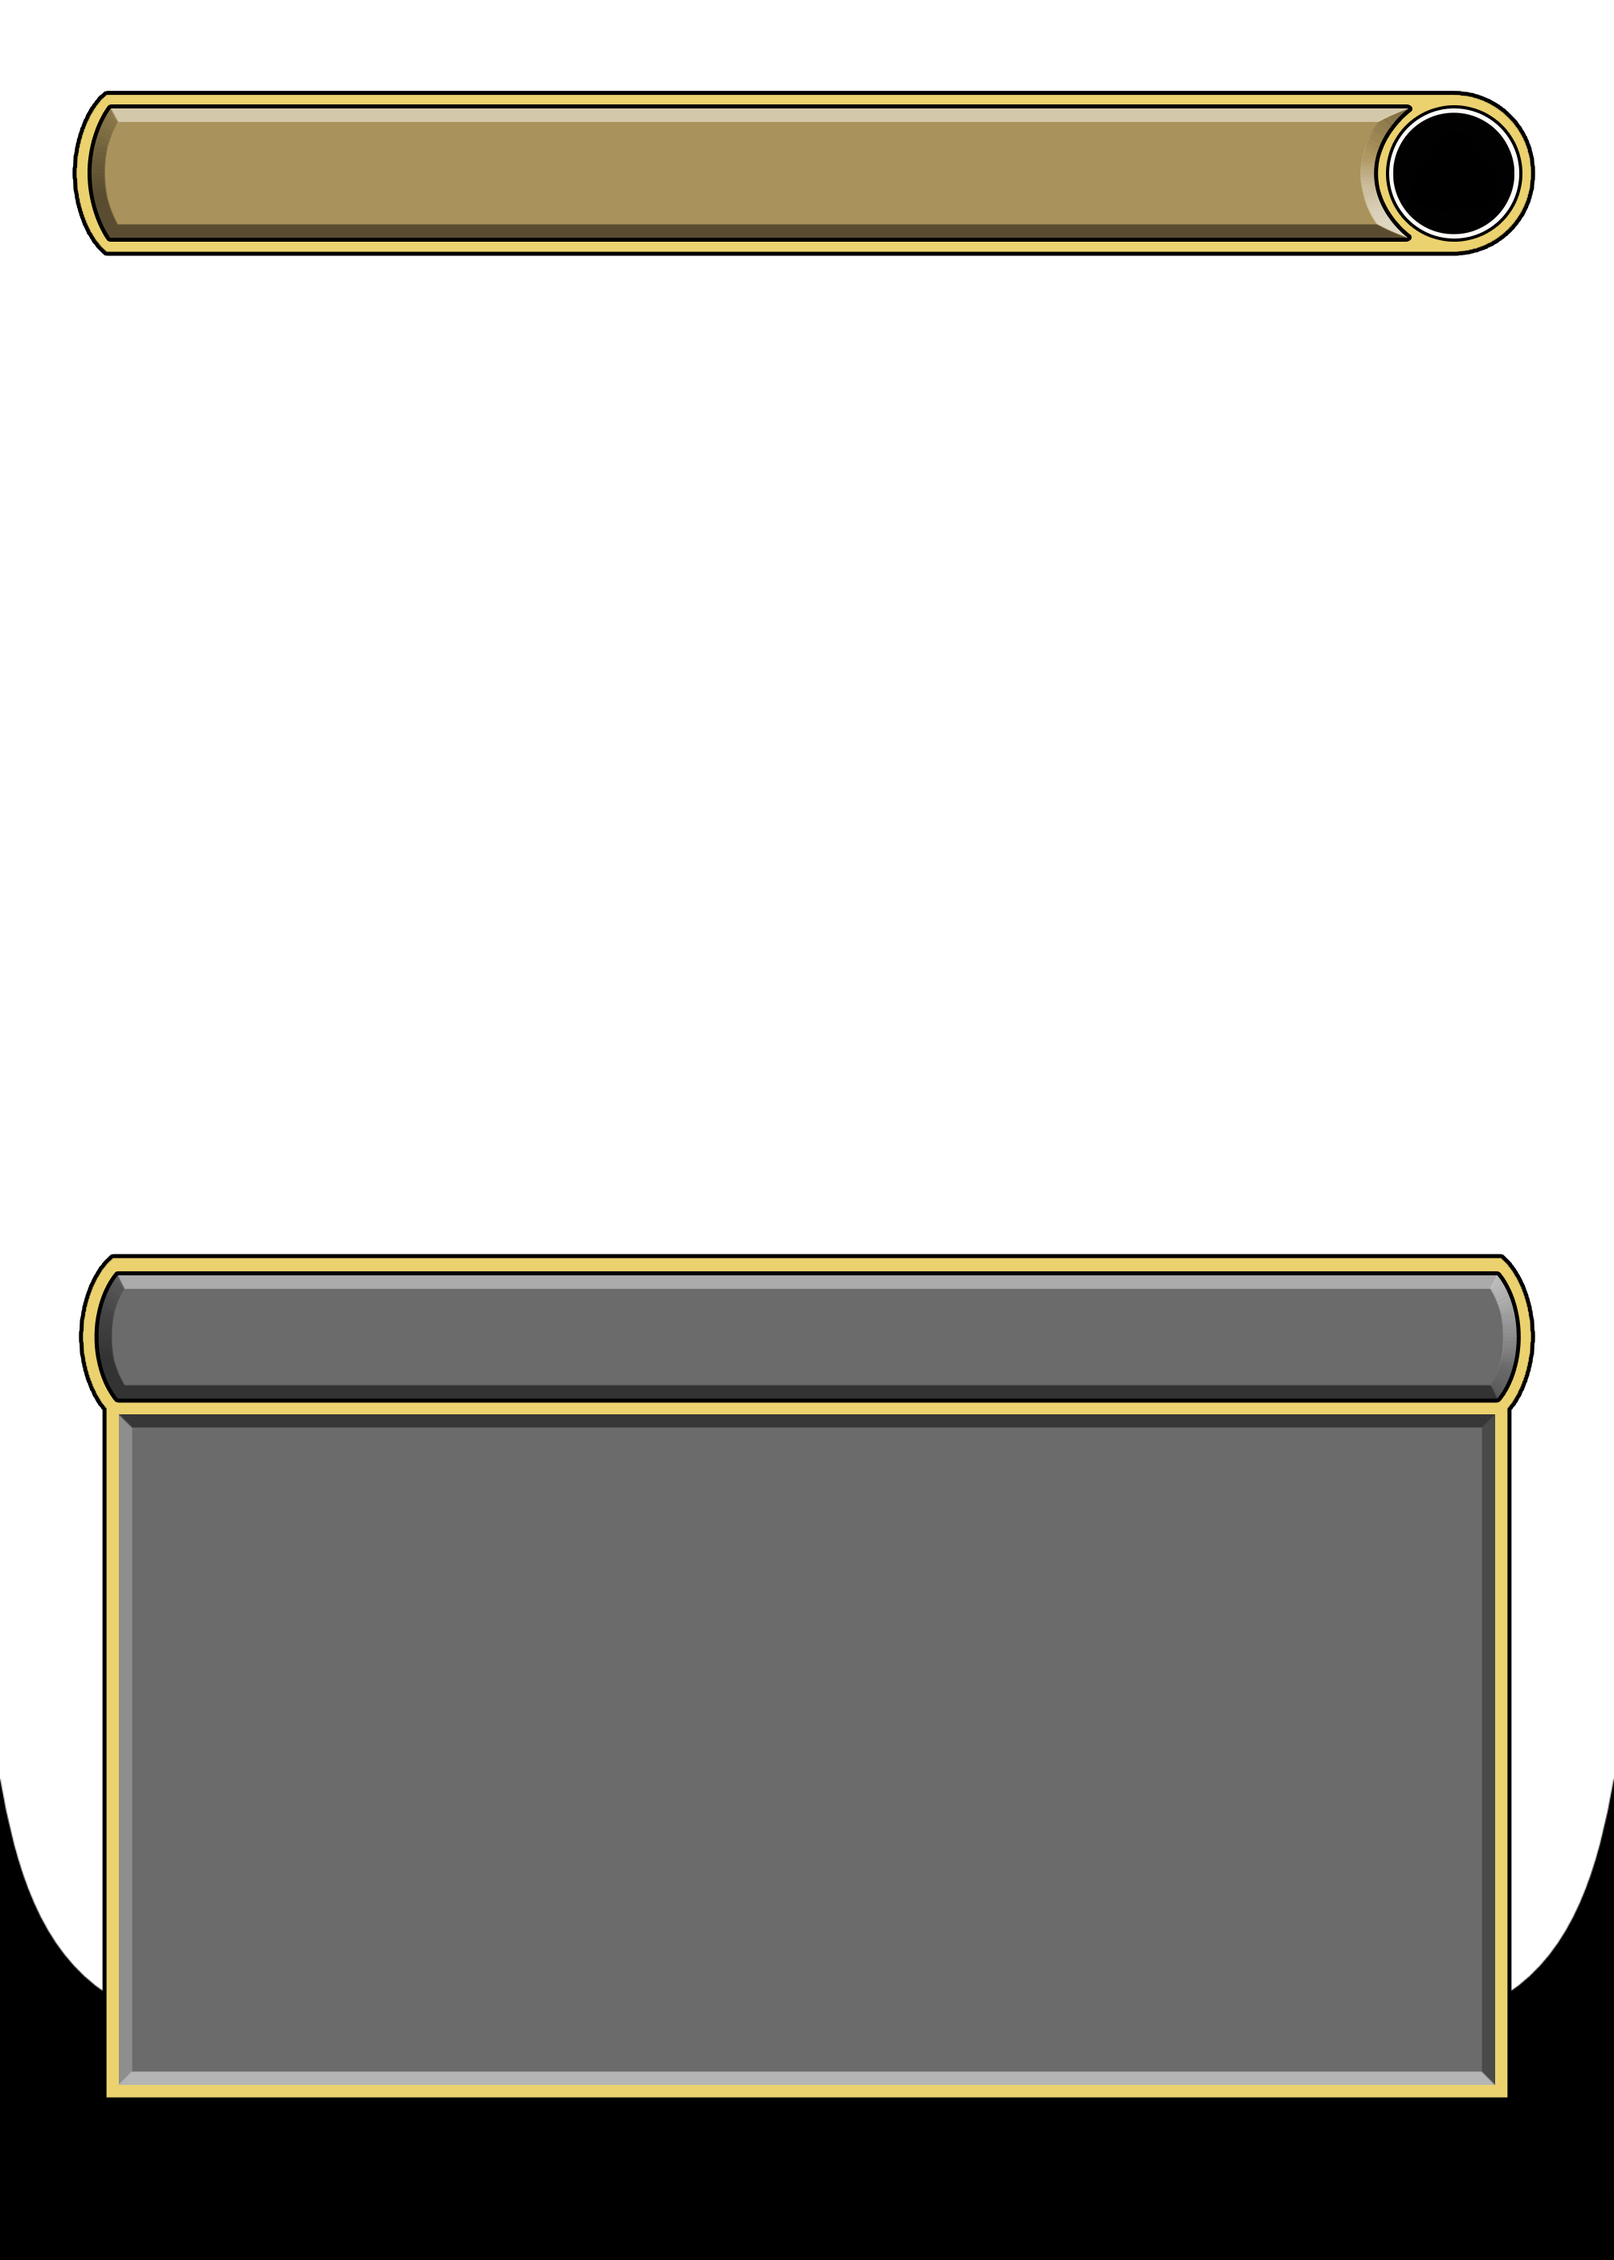
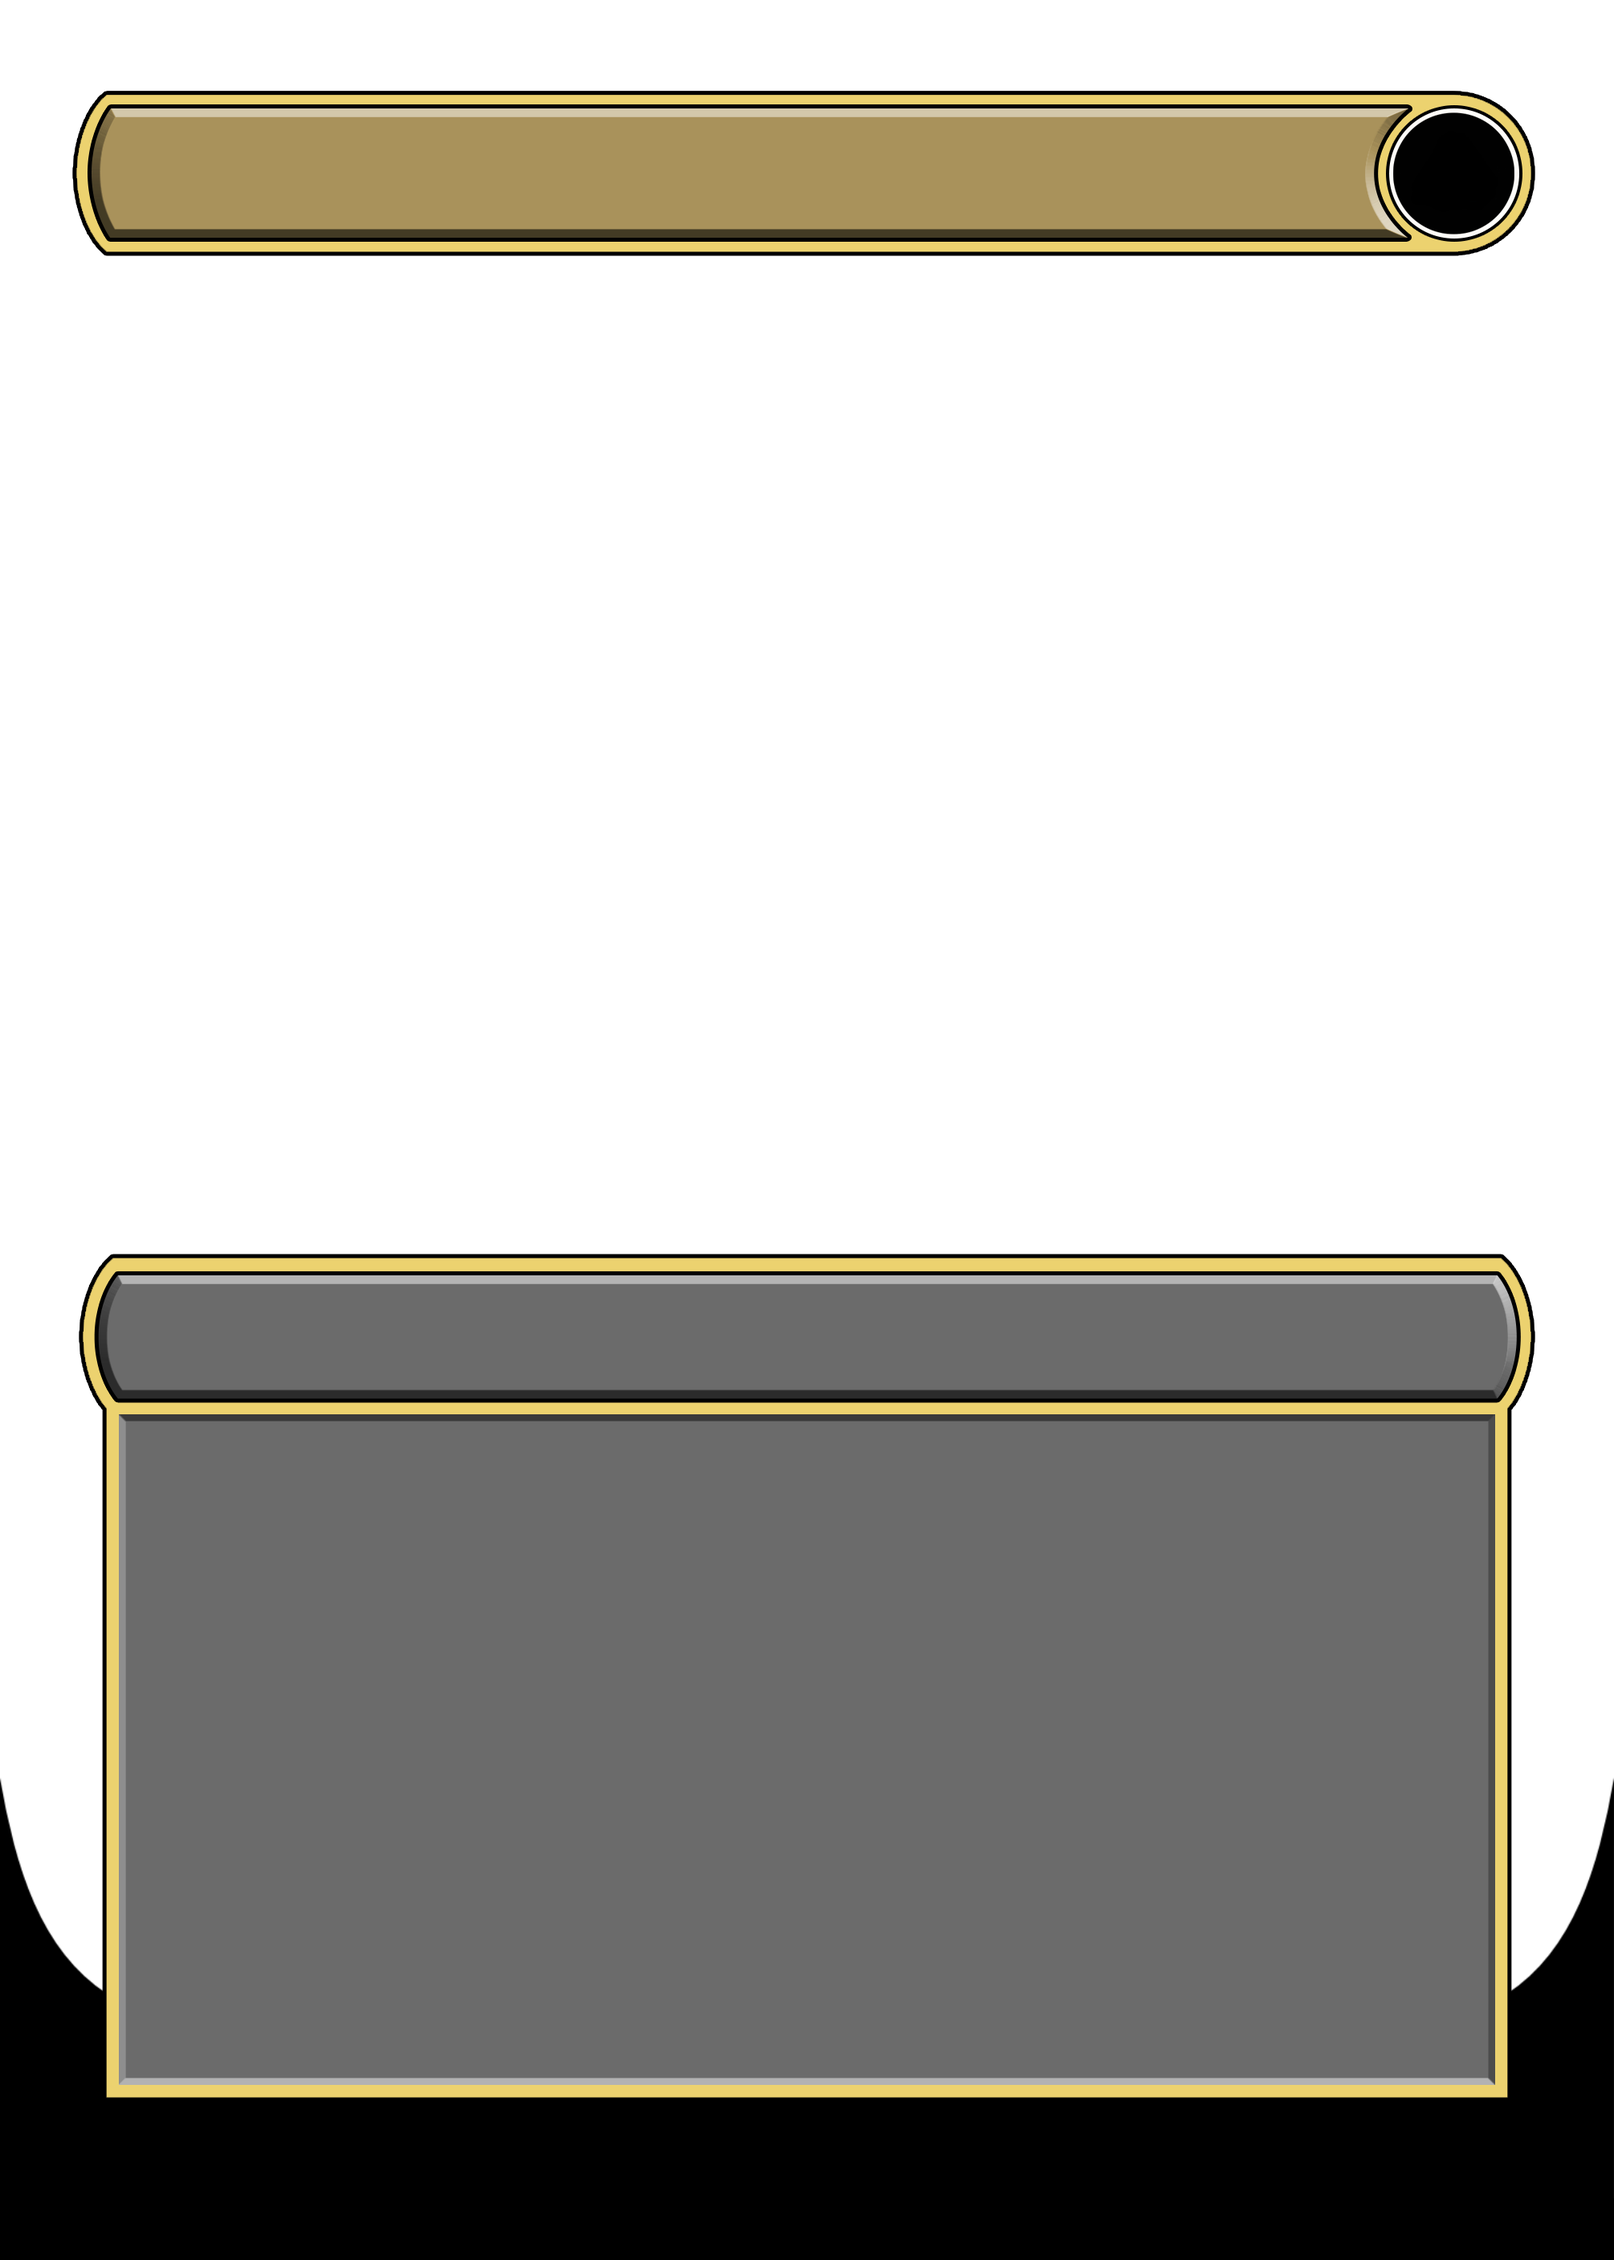
Porting PR178 and PR180 from CC
PR178: Adds Floating Legends Crown Back Right
PR180: Add Fable frame
Both submitted by AModSoul

Changed region(s): [[0.0617, 0.5874, 0.9254, 0.9275], [0.0617, 0.0618, 0.0925, 0.0928]]

diff --git a/src/components/frames/packs/FableECL.ts b/src/components/frames/packs/FableECL.ts
@@ -1,0 +1,61 @@
+import type { FramePackTemplate, Mask, FrameItem, Bounds } from './types';
+
+// Shared masks for frames
+const masks: Mask[] = [
+  { src: '/img/frames/fable/masks/maskTitle.png', name: 'Title' },
+  { src: '/img/frames/fable/masks/maskFrame.png', name: 'Frame' },
+  { src: '/img/frames/fable/masks/maskNoBorder.png', name: 'No Border' },
+  { src: '/img/frames/fable/masks/maskNoTitle.png', name: 'No Title' },
+  { src: '/img/frames/fable/masks/maskBorder.png', name: 'Border' },
+];
+
+// Shared bounds for P/T boxes
+const ptBounds: Bounds = { x: 6 / 2010, y: 11 / 2814, width: 1, height: 1 };
+
+// Shared bounds for holo stamps
+const stampBounds: Bounds = { x: 805 / 2010, y: 2500 / 2814, width: 400 / 2010, height: 125 / 2814 };
+
+const frames: FrameItem[] = [
+  { name: 'White Frame', src: '/img/frames/fable/w.png', masks },
+  { name: 'Blue Frame', src: '/img/frames/fable/u.png', masks },
+  { name: 'Black Frame', src: '/img/frames/fable/b.png', masks },
+  { name: 'Red Frame', src: '/img/frames/fable/r.png', masks },
+  { name: 'Green Frame', src: '/img/frames/fable/g.png', masks },
+  { name: 'Multicolored Frame', src: '/img/frames/fable/m.png', masks },
+  { name: 'Artifact Frame', src: '/img/frames/fable/a.png', masks },
+  { name: 'White Power/Toughness', src: '/img/frames/fable/pt/w.png', bounds: ptBounds },
+  { name: 'Blue Power/Toughness', src: '/img/frames/fable/pt/u.png', bounds: ptBounds },
+  { name: 'Black Power/Toughness', src: '/img/frames/fable/pt/b.png', bounds: ptBounds },
+  { name: 'Red Power/Toughness', src: '/img/frames/fable/pt/r.png', bounds: ptBounds },
+  { name: 'Green Power/Toughness', src: '/img/frames/fable/pt/g.png', bounds: ptBounds },
+  { name: 'Multicolored Power/Toughness', src: '/img/frames/fable/pt/m.png', bounds: ptBounds },
+  { name: 'Artifact Power/Toughness', src: '/img/frames/fable/pt/a.png', bounds: ptBounds },
+  { name: 'White Holo Stamp', src: '/img/frames/fable/stamp/w.png', bounds: stampBounds },
+  { name: 'Blue Holo Stamp', src: '/img/frames/fable/stamp/u.png', bounds: stampBounds },
+  { name: 'Black Holo Stamp', src: '/img/frames/fable/stamp/b.png', bounds: stampBounds },
+  { name: 'Red Holo Stamp', src: '/img/frames/fable/stamp/r.png', bounds: stampBounds },
+  { name: 'Green Holo Stamp', src: '/img/frames/fable/stamp/g.png', bounds: stampBounds },
+  { name: 'Multicolored Holo Stamp', src: '/img/frames/fable/stamp/m.png', bounds: stampBounds },
+  { name: 'Artifact Holo Stamp', src: '/img/frames/fable/stamp/a.png', bounds: stampBounds },
+  { name: 'Plain Holo Stamp', src: '/img/frames/m15/holoStamps/stamp.png', bounds: { x: 916 / 2010, y: 2555 / 2814, width: 180 / 2010, height: 90 / 2814 } },
+  { name: 'Gray Holo Stamp', src: '/img/frames/m15/holoStamps/gray.png', bounds: { x: 916 / 2010, y: 2555 / 2814, width: 180 / 2010, height: 90 / 2814 } },
+];
+
+const template: FramePackTemplate = {
+  id: 'FableECL',
+  label: 'Fable (ECL)',
+  version: 'fableECL',
+  artBounds: { x: 0 / 2010, y: 0 / 2814, width: 2010 / 2010, height: 1585 / 2814 },
+  setSymbolBounds: { x: 1845 / 2010, y: 1240 / 2100, width: 0.12, height: 0.0410, vertical: 'center', horizontal: 'right' },
+  watermarkBounds: { x: 0.5, y: 0.7762, width: 0.75, height: 0.2305 },
+  frames,
+  text: {
+    mana: { name: 'Mana Cost', text: '', x: -34 / 2010, y: 194 / 2814, width: 1864 / 2010, height: 71 / 2100, oneLine: true, size: 70.5 / 1638, align: 'right', shadowX: -0.001, shadowY: 0.0029, manaCost: true, manaSpacing: 0 },
+    title: { name: 'Title', text: '', x: 168 / 2010, y: 163 / 2814, width: 0.8292, height: 0.0543, oneLine: true, font: 'belerenb', size: 0.0381 },
+    type: { name: 'Type', text: '', x: 168 / 2010, y: 1588 / 2814, width: 0.8292, height: 0.0543, oneLine: true, font: 'belerenb', size: 0.0324 },
+    rules: { name: 'Rules Text', text: '', x: 187 / 2010, y: 1780 / 2814, width: 1650 / 2010, height: 790 / 2814, size: 0.0362 },
+    pt: { name: 'Power/Toughness', text: '', x: 0.7928, y: 2532 / 2814, width: 0.1367, height: 0.0372, size: 0.0372, font: 'belerenbsc', oneLine: true, align: 'center' },
+  },
+};
+
+export default template;

diff --git a/src/components/frames/packs/TransformLegendCrownsFloatingBackRight.ts b/src/components/frames/packs/TransformLegendCrownsFloatingBackRight.ts
@@ -1,0 +1,27 @@
+import type { FramePackTemplate, FrameItem, Bounds } from './types';
+
+// Shared bounds
+const bounds: Bounds = { x: 0, y: 0, width: 1, height: 1 };
+
+const frames: FrameItem[] = [
+  { name: 'White Legend Crown', src: '/img/frames/m15/transform/crowns/floating/backRight/w.png', bounds, complementary: [9, 10] },
+  { name: 'Blue Legend Crown', src: '/img/frames/m15/transform/crowns/floating/backRight/u.png', bounds, complementary: [9, 10] },
+  { name: 'Black Legend Crown', src: '/img/frames/m15/transform/crowns/floating/backRight/b.png', bounds, complementary: [9, 10] },
+  { name: 'Red Legend Crown', src: '/img/frames/m15/transform/crowns/floating/backRight/r.png', bounds, complementary: [9, 10] },
+  { name: 'Green Legend Crown', src: '/img/frames/m15/transform/crowns/floating/backRight/g.png', bounds, complementary: [9, 10] },
+  { name: 'Multicolored Legend Crown', src: '/img/frames/m15/transform/crowns/floating/backRight/m.png', bounds, complementary: [9, 10] },
+  { name: 'Artifact Legend Crown', src: '/img/frames/m15/transform/crowns/floating/backRight/a.png', bounds, complementary: [9, 10] },
+  { name: 'Colorless Legend Crown', src: '/img/frames/m15/transform/crowns/floating/backRight/c.png', bounds, complementary: [9, 10] },
+//   { name: 'Land Legend Crown', src: '/img/frames/m15/transform/crowns/floating/backRight/l.png', bounds, complementary: [9, 10] },
+  { name: 'Legend Crown Border Cover', src: '/img/black.png', bounds: { x: 0.0394, y: 0.0277, width: 0.9214, height: 0.0177 }, erase: true },
+  { name: 'Legend Crown Lower Cutout', src: '/img/black.png', bounds: { x: 0.0767, y: 0.1096, width: 0.8467, height: 0.0143 }, erase: true },
+  { name: 'Legend Crown Outline (Place this under crown layer)', src: '/img/frames/m15/crowns/m15CrownFloatingOutline.png', bounds: { x: 0.028, y: 0.0172, width: 0.944, height: 0.1062 } },
+];
+
+const template: FramePackTemplate = {
+  id: 'TransformLegendCrownsFloatingBackRight',
+  label: 'Floating Legend Crowns (Back/Right)',
+  frames,
+};
+
+export default template;

diff --git a/src/components/frames/packs/packLoader.ts b/src/components/frames/packs/packLoader.ts
@@ -95,6 +95,7 @@ import FABHeroes from './FABHeroes';
 import FABLight from './FABLight';
 import FABRegular from './FABRegular';
 import FABShadow from './FABShadow';
+import FableECL from './FableECL';
 import Fang from './Fang';
 import FNM from './FNM';
 import Fuse from './Fuse';
@@ -228,7 +229,9 @@ import M15TransformUBBack from './M15TransformUBBack';
 import TransformSDCC15 from './TransformSDCC15';
 import TransformLegendCrowns from './TransformLegendCrowns';
 import TransformLegendCrownsFloating from './TransformLegendCrownsFloating';
+import TransformLegendCrownsFloatingBackRight from './TransformLegendCrownsFloatingBackRight';
 import TransformLegendCrownsNickname from './TransformLegendCrownsNickname';
+import MarginFableECL from './MarginFableECL';
 import M15NyxNew from './M15NyxNew-1';
 import UBNew from './UBNew-1';
 import UBLegendCrownsNew from './UBLegendCrownsNew-1';
@@ -498,6 +501,7 @@ const PACK_REGISTRY: Record<string, FramePackTemplate> = {
   'FABClasses': FABClasses,
   'FABElemental': FABElemental,
   'FABFabled': FABFabled,
+  'FableECL': FableECL,
   'FABHeroes': FABHeroes,
   'FABLight': FABLight,
   'FABRegular': FABRegular,
@@ -718,7 +722,9 @@ const PACK_REGISTRY: Record<string, FramePackTemplate> = {
   'TransformSDCC15': TransformSDCC15,
   'TransformLegendCrowns': TransformLegendCrowns,
   'TransformLegendCrownsFloating': TransformLegendCrownsFloating,
+  'TransformLegendCrownsFloatingBackRight': TransformLegendCrownsFloatingBackRight,
   'TransformLegendCrownsNickname': TransformLegendCrownsNickname,
+  'MarginFableECL': MarginFableECL,
   'Woodland': Woodland,
 };
 

diff --git a/src/components/frames/packs/MarginFableECL.ts b/src/components/frames/packs/MarginFableECL.ts
@@ -1,0 +1,28 @@
+import type { FramePackTemplate, Mask, FrameItem, Bounds } from './types';
+
+// Shared masks for frames
+const masks: Mask[] = [
+  { src: '/img/frames/fable/margin/masks/maskNoBorder.png', name: 'No Border' },
+];
+
+// Shared bounds for extension frames
+const bounds: Bounds = { x: -88 / 2010, y: -80 / 2817, width: 2187 / 2010, height: 2978 / 2817 };
+const ogBounds: Bounds = { x: 0, y: 0, width: 1, height: 1 };
+
+const frames: FrameItem[] = [
+  { name: 'White Extension', src: '/img/frames/fable/margin/w.png', bounds, ogBounds, masks },
+  { name: 'Blue Extension', src: '/img/frames/fable/margin/u.png', bounds, ogBounds, masks },
+  { name: 'Black Extension', src: '/img/frames/fable/margin/b.png', bounds, ogBounds, masks },
+  { name: 'Red Extension', src: '/img/frames/fable/margin/r.png', bounds, ogBounds, masks },
+  { name: 'Green Extension', src: '/img/frames/fable/margin/g.png', bounds, ogBounds, masks },
+  { name: 'Multicolored Extension', src: '/img/frames/fable/margin/m.png', bounds, ogBounds, masks },
+  { name: 'Artifact Extension', src: '/img/frames/fable/margin/a.png', bounds, ogBounds, masks },
+];
+
+const template: FramePackTemplate = {
+  id: 'MarginFableECL',
+  label: 'Fable (ECL) Margins',
+  frames,
+};
+
+export default template;

diff --git a/src/components/frames/groups/DFC.ts b/src/components/frames/groups/DFC.ts
@@ -26,7 +26,7 @@ const group: LegacyGroup = {
     { kind: 'pack', label: 'Snow (Back)', id:'M15TransformSnowBackNew' },
     { kind: 'pack', label: 'Universes Beyond (Back)', id:'M15TransformUBBackNew' },
     { kind: 'pack', label: 'Borderless (Back)', id:'TransformBorderlessBack' },
-    { kind: 'pack', label: 'Borderless Alt (Back)', id:'TransformBorderlessAltBack' },
+    { kind: 'pack', label: 'Borderless Alt (Back/Right)', id:'TransformBorderlessAltBack' },
     { kind: 'pack', label: 'Extended Art (Back)', id:'TransformExtendedBack' },
 
     { kind: 'label', label: 'Common Parts' },
@@ -44,6 +44,7 @@ const group: LegacyGroup = {
     { kind: 'label', label: 'Addons' },
     { kind: 'pack', label: 'Legend Crowns', id:'TransformLegendCrowns' },
     { kind: 'pack', label: 'Floating Legend Crowns', id:'TransformLegendCrownsFloating' },
+    { kind: 'pack', label: 'Floating Legend Crowns (Back/Right)', id:'TransformLegendCrownsFloatingBackRight' },
     { kind: 'pack', label: 'Nickname Legend Crowns', id:'TransformLegendCrownsNickname' },
     { kind: 'pack', label: 'Legend Crowns (Universes Beyond)', id:'TransformLegendCrownsUB' },
     { kind: 'pack', label: 'Inner Crowns', id:'M15InnerCrowns' },

diff --git a/src/components/frames/groups/Margin.ts b/src/components/frames/groups/Margin.ts
@@ -6,6 +6,7 @@ const group: LegacyGroup = {
   notice: 'More work need to be done for this group',
   packs: [
     { kind: 'pack', label: 'Generic Margins', id:'Margin-1' },
+    { kind: 'pack', label: 'Fable (ECL) Margins', id:'MarginFableECL' },
     { kind: 'pack', label: 'Elemental Margins (TLA)', id:'MarginElemental' },
     { kind: 'pack', label: 'Edge of Eternities Basics (EOE)', id:'MarginEOEBasics' },
     { kind: 'pack', label: 'Borderless Stellar Sights', id:'MarginBorderlessStellarSights' },

diff --git a/src/components/frames/groups/Showcase-5.ts b/src/components/frames/groups/Showcase-5.ts
@@ -5,6 +5,7 @@ const group: LegacyGroup = {
   label: 'Showcase Frames',
   packs: [
     { kind: 'label', label: 'Set Showcase Frames (Chronological)' },
+    { kind: 'pack', label: 'Fable (ECL)', id:'FableECL' },
     { kind: 'pack', label: 'Neon Ink (TLA)', id:'NeonInk' },
     { kind: 'pack', label: 'Avatar Elemental (TLA)', id:'Elemental' },
     { kind: 'pack', label: 'Borderless Stellar Sights (EOS)', id:'BorderlessStellarSights' },

diff --git a/src/components/frames/packs/TransformBorderlessAltBack.ts b/src/components/frames/packs/TransformBorderlessAltBack.ts
@@ -34,7 +34,7 @@ const frames: FrameItem[] = [
 
 const template: FramePackTemplate = {
   id: 'TransformBorderlessAltBack',
-  label: 'Borderless Alt (Back)',
+  label: 'Borderless Alt (Back/Right)',
   version: 'transformBorderlessAltBack',
   notice: 'If you intend to add the color identity pips, we recommend that you shift your Type text to the right with "{right66}".',
   artBounds: { x: 0, y: 0, width: 1, height: 0.9224 },
